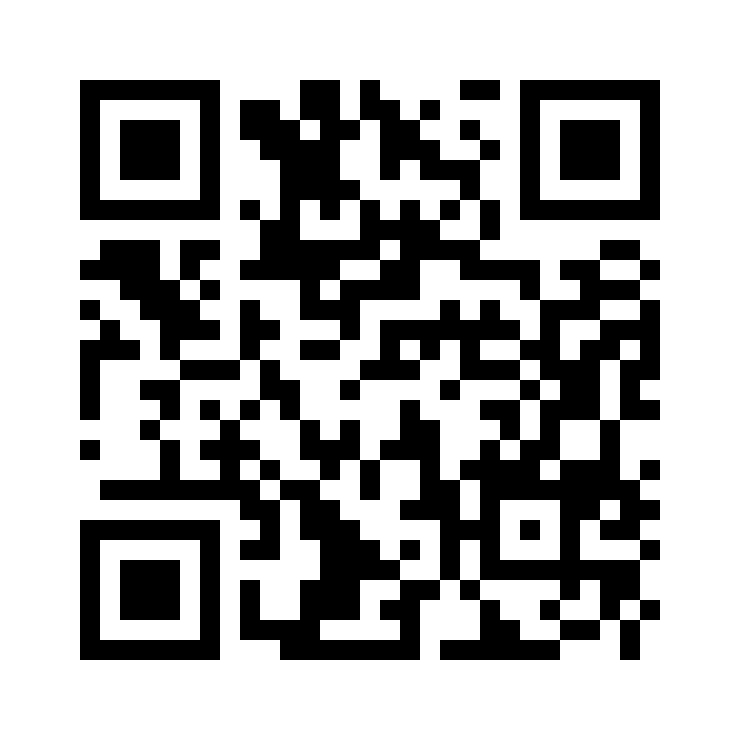
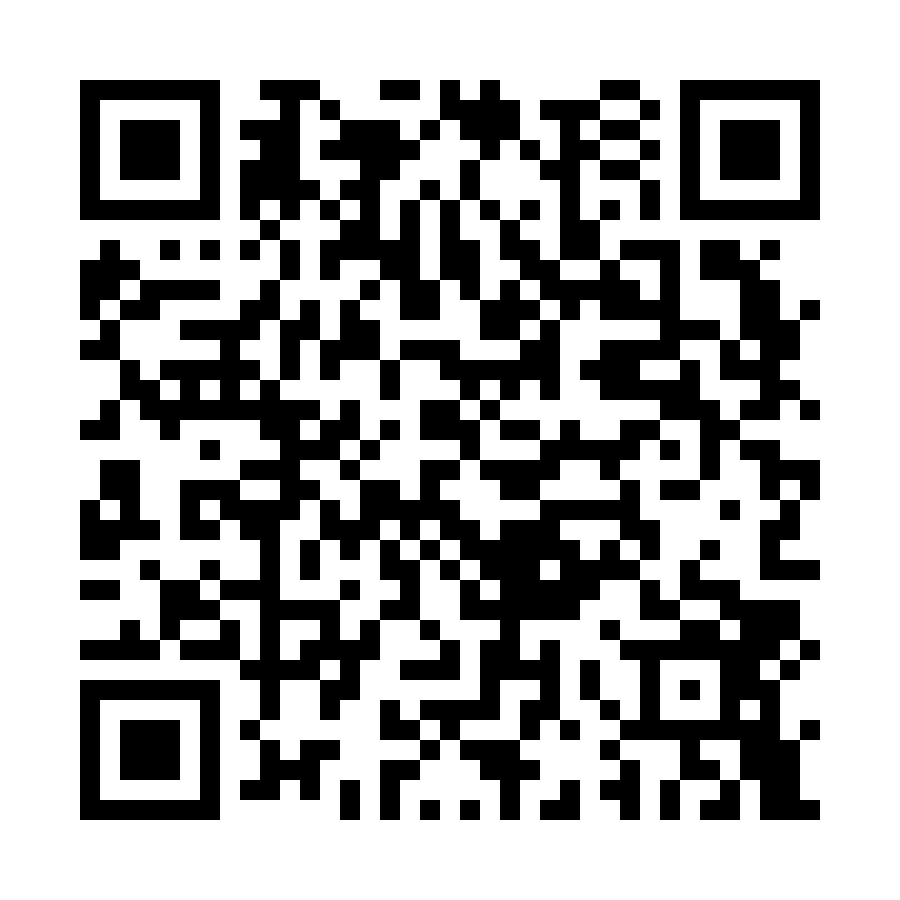
update

diff --git a/abraham.md b/abraham.md
@@ -5,7 +5,7 @@ Aplikácia je dostupná **bezplatne** na operačných systémoch **Android**, **
 
 | Android | iOS |
 |-----|--------|
-|<a href="https://play.google.com/store/apps/details?id=com.alphabetpartner.abraham"><img src="https://play.google.com/intl/en_us/badges/static/images/badges/sk_badge_web_generic.png" alt="Android" width="350"/></a>|<a href="https://apps.apple.com/sk/app/"><img src="https://raw.githubusercontent.com/Martinedo/ObApp_promoting/master/resources/download_on_app_store_sk.png" alt="iOS" width="300"/></a>|
+|<a href="https://play.google.com/store/apps/details?id=com.alphabetpartner.abraham"><img src="https://play.google.com/intl/en_us/badges/static/images/badges/sk_badge_web_generic.png" alt="Android" width="350"/></a>|<a href="https://apps.apple.com/sk/app/abrahám/id6499540605"><img src="https://raw.githubusercontent.com/Martinedo/ObApp_promoting/master/resources/download_on_app_store_sk.png" alt="iOS" width="300"/></a>|
 |<img src="https://raw.githubusercontent.com/Martinedo/ObApp_promoting/master/resources/QR_images/abraham_android.png" alt="qr_android" width="300"/>|<img src="https://raw.githubusercontent.com/Martinedo/ObApp_promoting/master/resources/QR_images/abraham_ios.png" alt="qr_iOS" width="300"/>|
 | Minimum - Android 5.0 Lollipop| Min - iOS 12.4 alebo novší |
 
